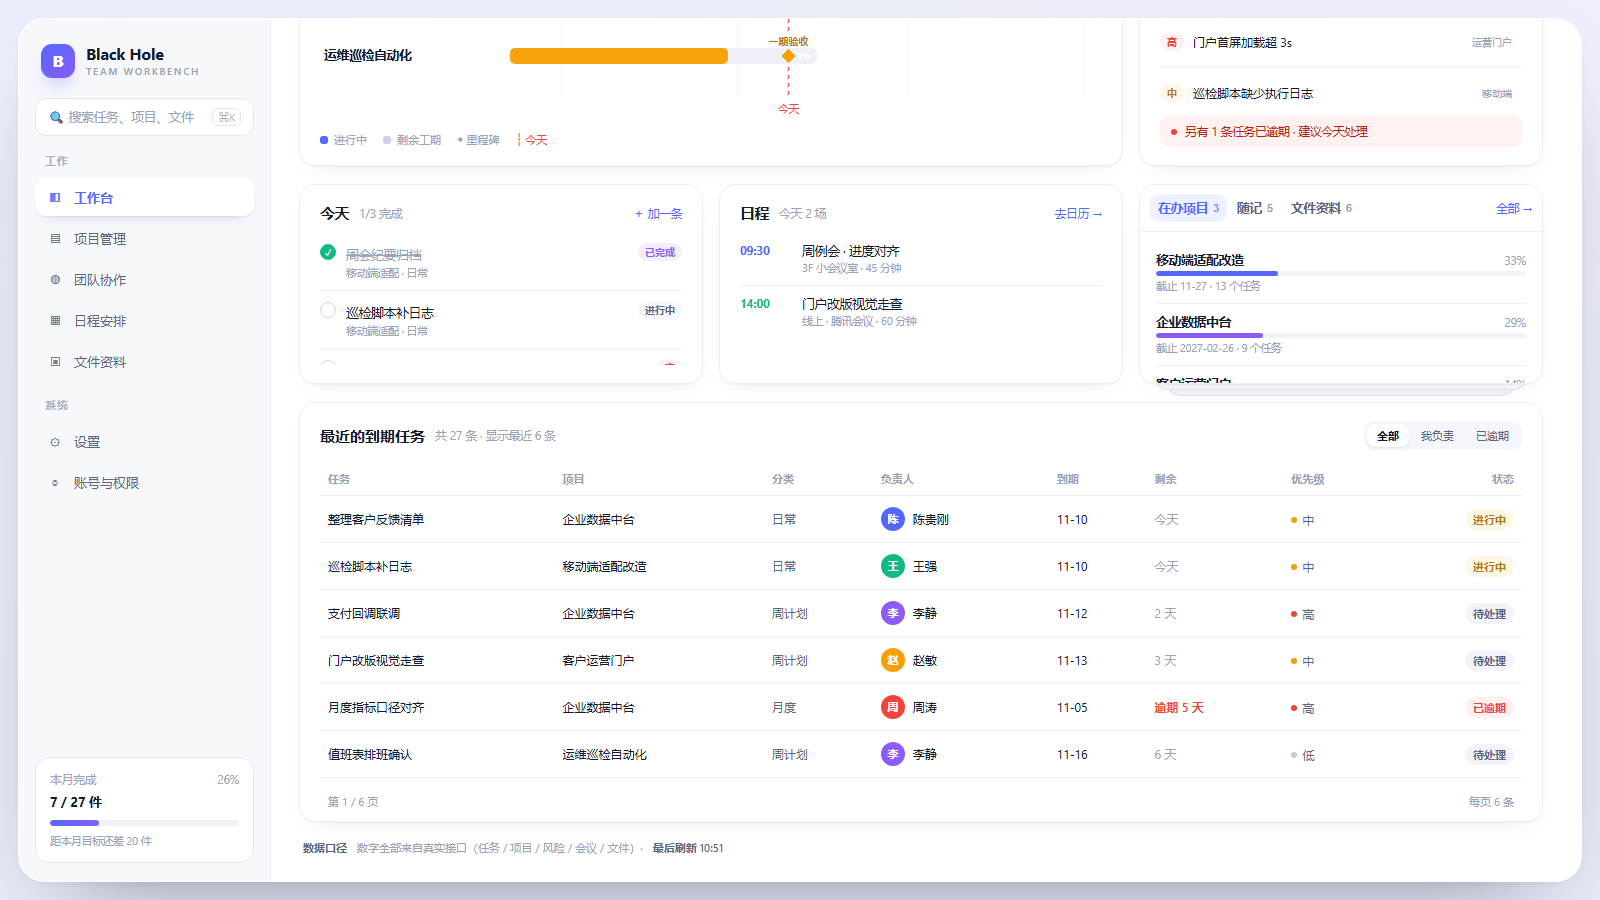
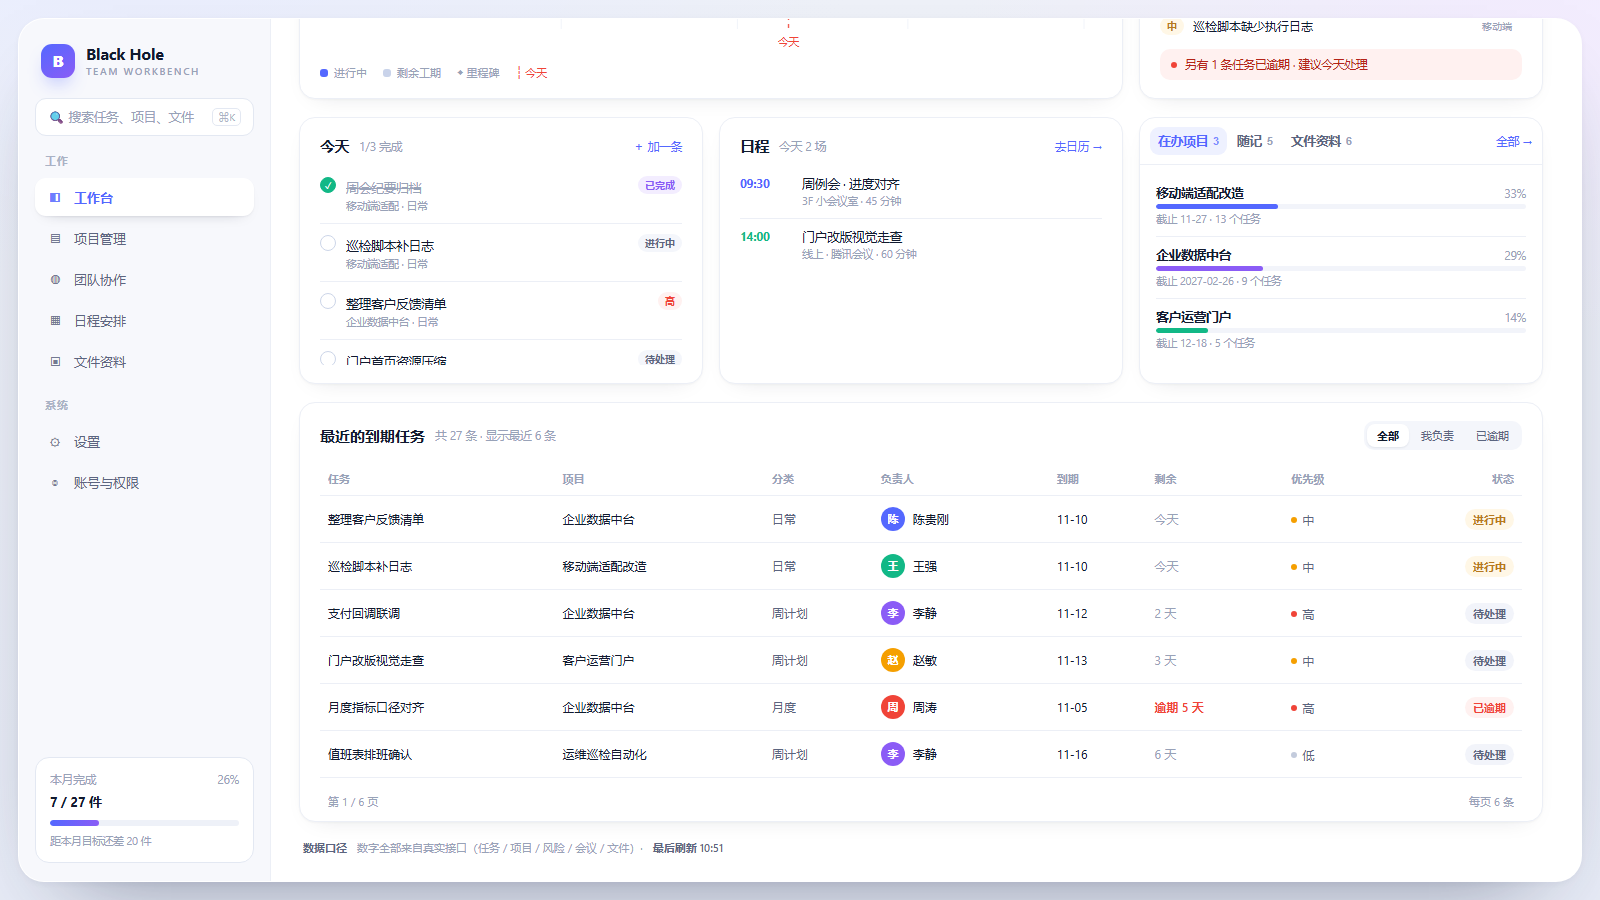
docs(demo): 今天/日程/堆叠卡三块加高三分之一，去掉堆叠卡底部叠层边
- 高度 200 → 267（+1/3），三块仍齐平
- 去掉 .deck::before/::after 两层错位边（老六说底部阴影不用展示），
  堆叠卡现在就是一张普通卡片，靠顶部标签切换
- 顺手修正数据：在办项目标签写 3 个，面板里却有 4 个且第 4 个被切一半 →
  删掉多余的第 4 项，现在 3 条完整显示
- 自检：三块 x=299/719/1139，宽 404、高 267 一致；今天 4 条可见（共 5 条可滚）；
  堆叠卡 3 项目不溢出；无 console 错误

diff --git a/docs/demo/workbench-demo.html b/docs/demo/workbench-demo.html
@@ -165,7 +165,7 @@
 
   /* 今天 / 日程 / 完成率 */
   .c4{grid-column:span 4}
-  .card.fixh{height:200px;display:flex;flex-direction:column}
+  .card.fixh{height:267px;display:flex;flex-direction:column}
   .card.fixh .list{flex:1;min-height:0;max-height:none}
   .list{display:flex;flex-direction:column;margin-top:8px;max-height:186px}
   .li{display:flex;align-items:flex-start;gap:10px;padding:10px 0}
@@ -196,14 +196,9 @@
 
   /* 堆叠卡：三张并排合成一张，标签切换 + 背后的层层错位边 */
   .stack-card{grid-column:span 4;position:relative;padding:0;background:transparent;border:0;box-shadow:none;min-width:0;
-    display:flex;height:200px}
+    display:flex;height:267px}
   .stack-card .deck{position:relative;display:flex;width:100%}
-  .stack-card .deck::before,
-  .stack-card .deck::after{content:'';position:absolute;height:16px;background:#f2f5fb;
-    border:1px solid #dfe6f2;border-top:0;border-radius:0 0 16px 16px;z-index:0;
-    box-shadow:0 6px 14px -10px rgba(17,26,46,.35)}
-  .stack-card .deck::before{bottom:-12px;left:26px;right:26px}
-  .stack-card .deck::after{bottom:-6px;left:14px;right:14px;background:#fafbfe;border-color:#e4eaf4}
+  /* 底部叠层边按老六要求去掉，只保留一张卡 */
   .stack-inner{position:relative;z-index:1;display:flex;flex-direction:column;width:100%;background:#fff;
     border:1px solid var(--line);border-radius:var(--r);box-shadow:var(--shadow);overflow:hidden}
   .stack-head{display:flex;align-items:center;gap:2px;padding:9px 10px;border-bottom:1px solid var(--line);flex-wrap:wrap}
@@ -480,7 +475,6 @@
                   <div class="pj"><span class="nm">移动端适配改造</span><span class="pc">33%</span><div class="bar"><i style="width:33%;background:#5468ff"></i></div><span class="due">截止 11-27 · 13 个任务</span></div>
                   <div class="pj"><span class="nm">企业数据中台</span><span class="pc">29%</span><div class="bar"><i style="width:29%;background:#8b5cf6"></i></div><span class="due">截止 2027-02-26 · 9 个任务</span></div>
                   <div class="pj"><span class="nm">客户运营门户</span><span class="pc">14%</span><div class="bar"><i style="width:14%;background:#12b886"></i></div><span class="due">截止 12-18 · 5 个任务</span></div>
-                  <div class="pj"><span class="nm">运维巡检自动化</span><span class="pc">71%</span><div class="bar"><i style="width:71%;background:#f59f00"></i></div><span class="due">截止 11-15 · 6 个任务</span></div>
                 </div>
               </div>
               <div class="stack-panel" data-panel="notes">
